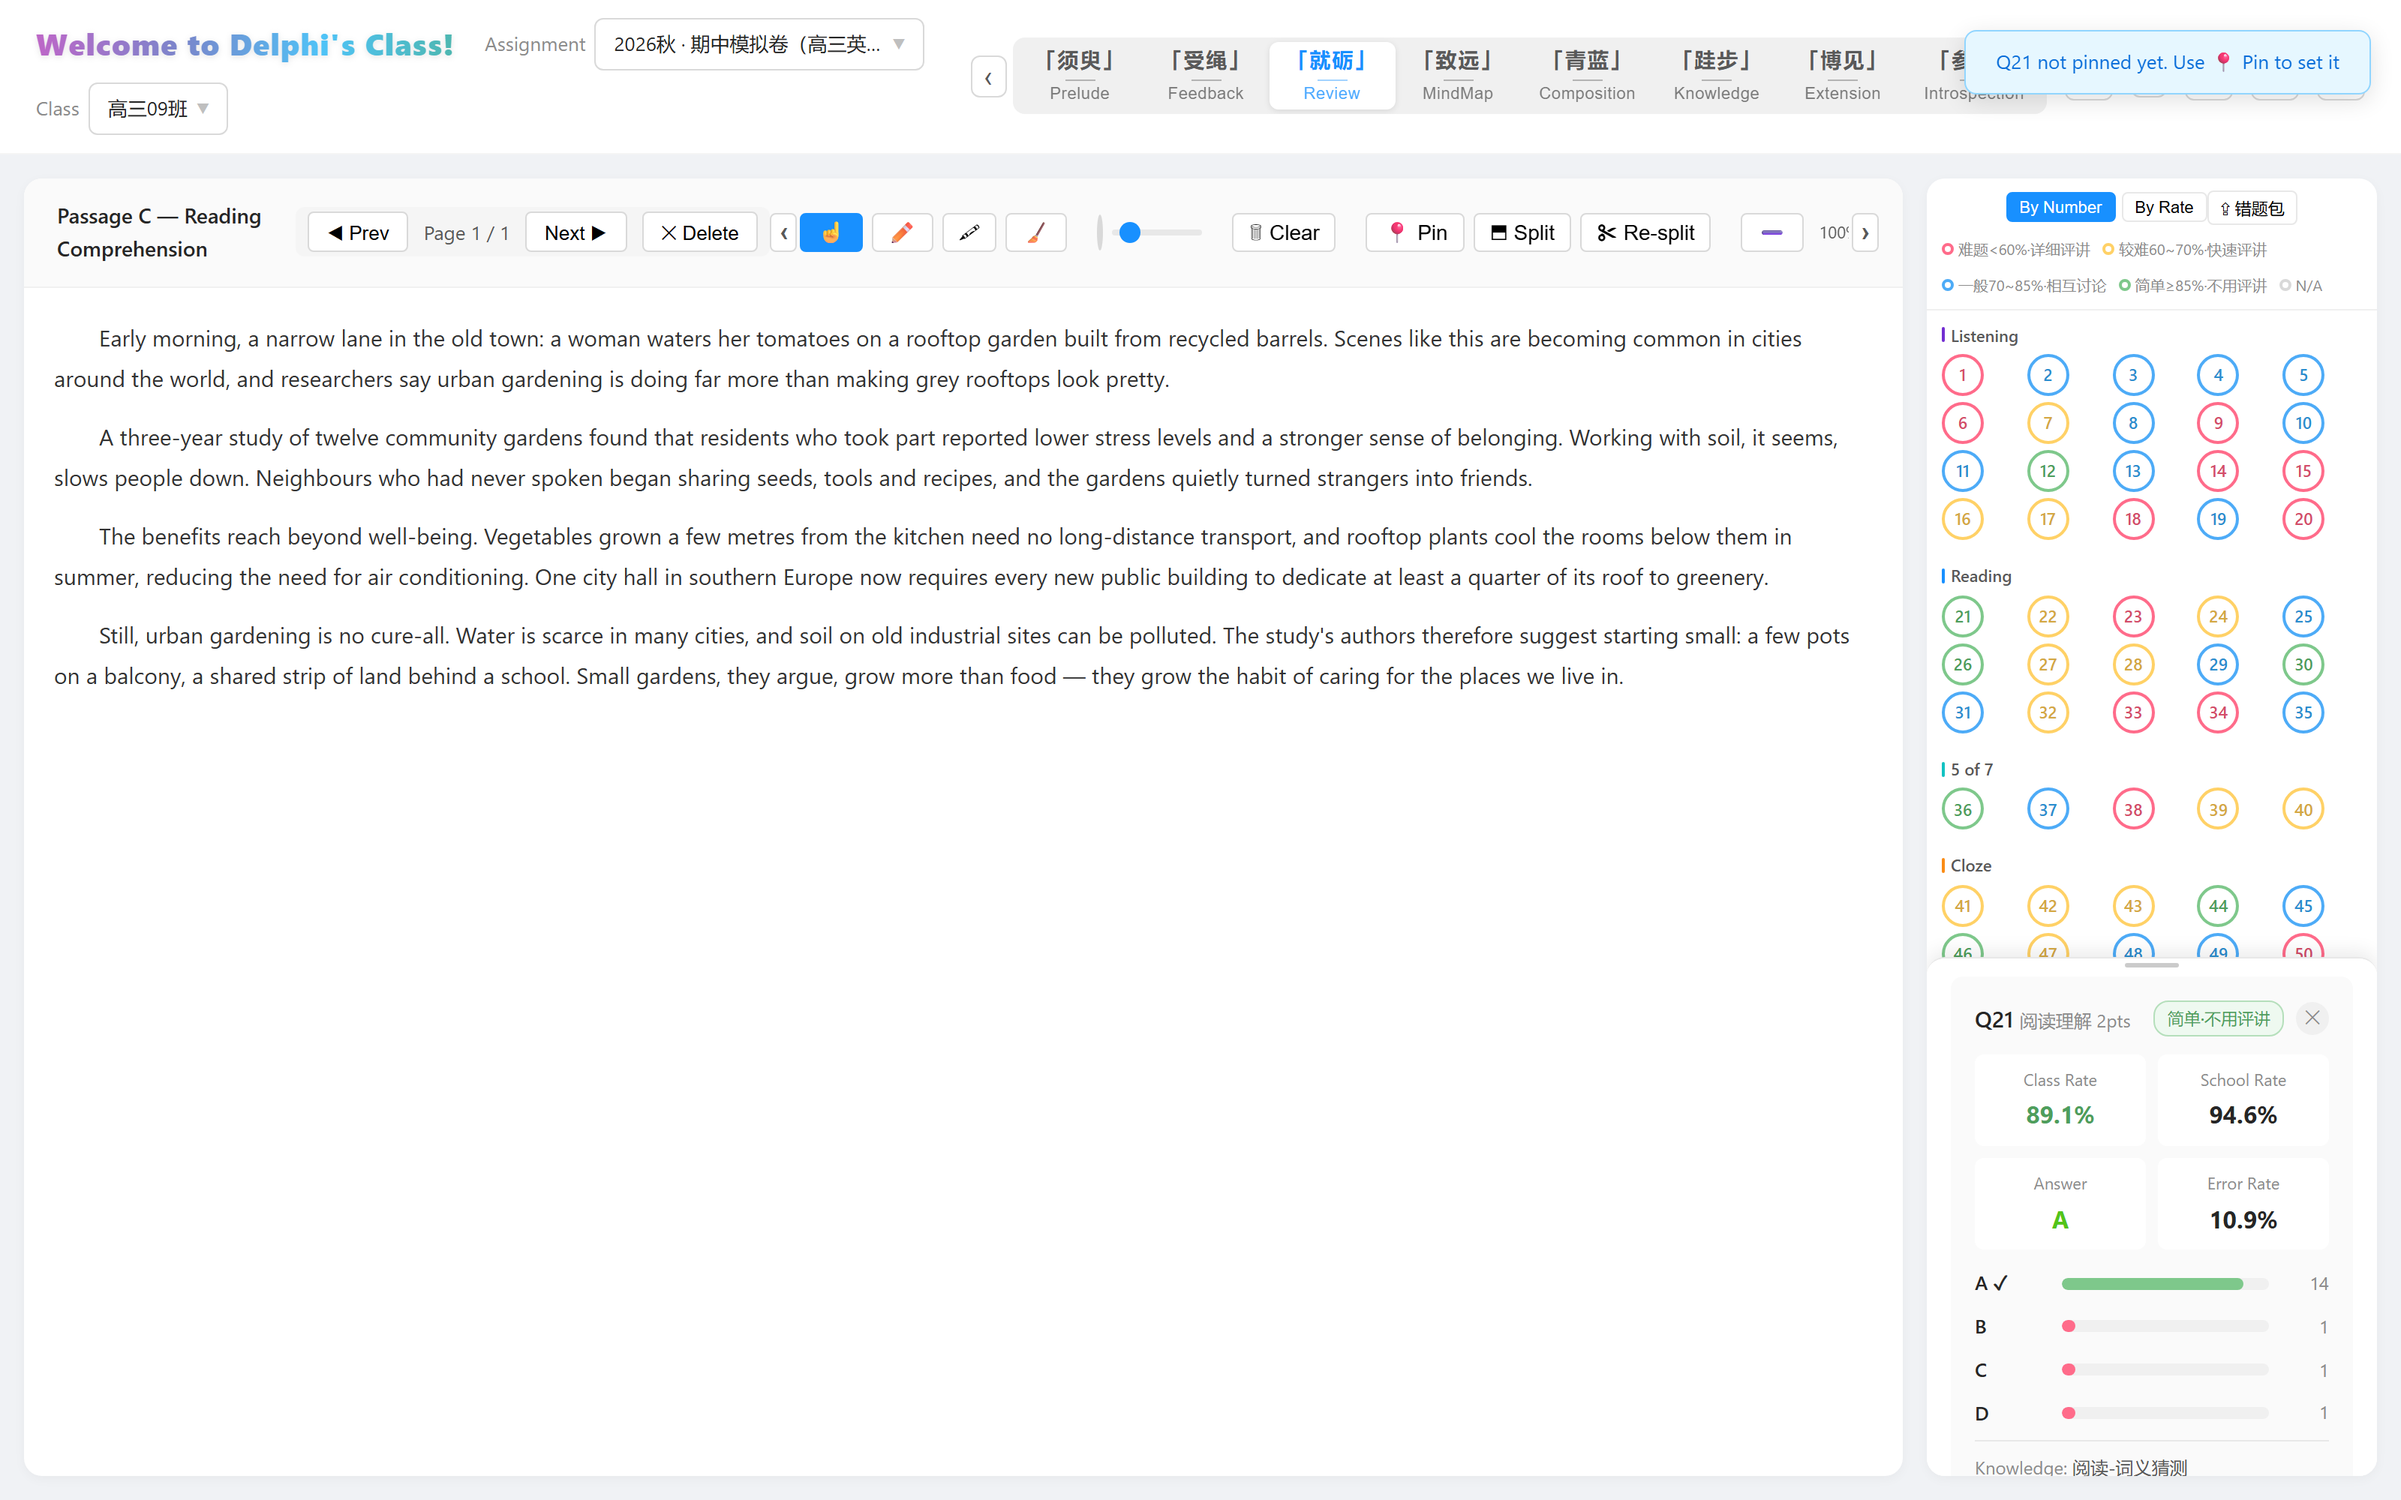
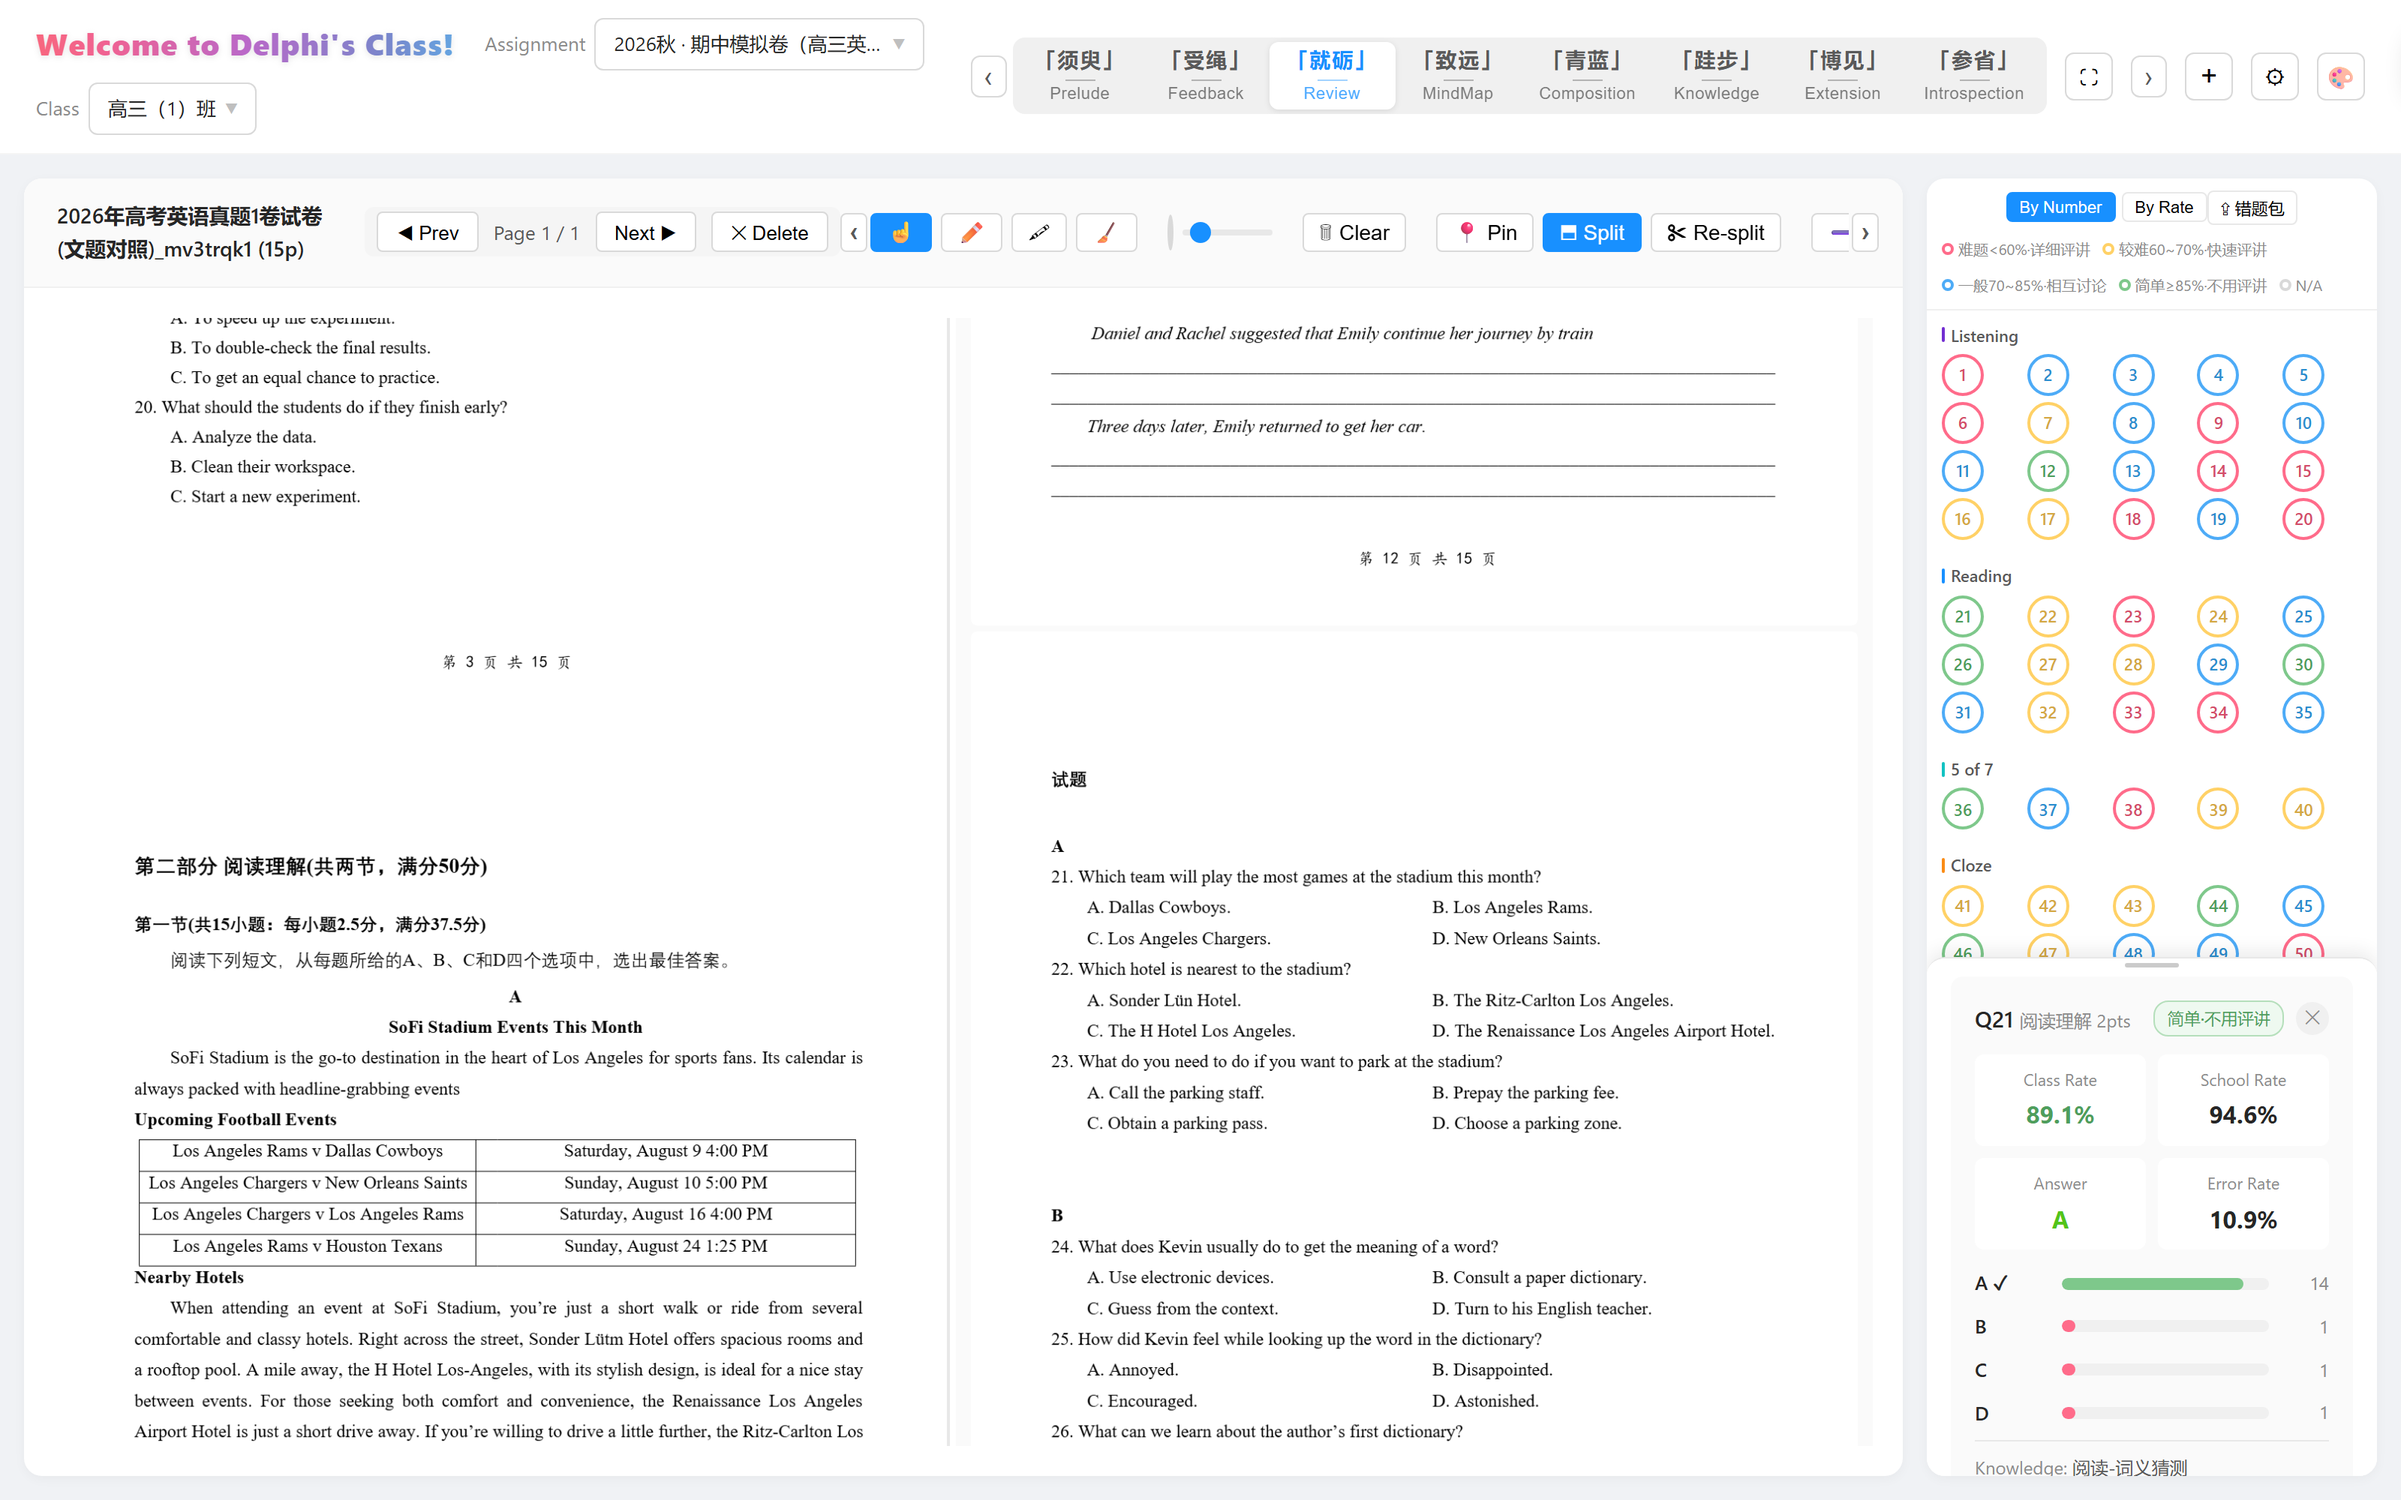
README ③就砺：换用 Split 文题对照分栏真实截图（真题PDF素材），补充分栏功能说明

diff --git a/README.md b/README.md
@@ -86,7 +86,7 @@ Excel 答题明细一键导入；按分数排序自动颁发 🥇🥈🥉 奖牌
 
 <img src="docs/screenshots/03b-review-passage.png" width="88%">
 
-题号网格按正确率**四色分级**（🟢≥85% 不用评讲 → 🔴<60% 详细评讲）；点击题号即刻联动**左侧原文 + 右侧题目卡**：班级/年级正确率、答案分布条形图、考点标签；画笔 / 高亮 / 橡皮直接在原文上圈画标注。
+题号网格按正确率**四色分级**（🟢≥85% 不用评讲 → 🔴<60% 详细评讲）；**Split 一键文题对照分栏**——左栏原文、右栏试题并排显示，点击题号即刻联动定位＋弹出**题目卡**：班级/年级正确率、答案分布条形图、考点标签；画笔 / 高亮 / 橡皮直接在原文上圈画标注。
 
 ### ④ 「致远」MindMap —— 语篇六步研读
 
